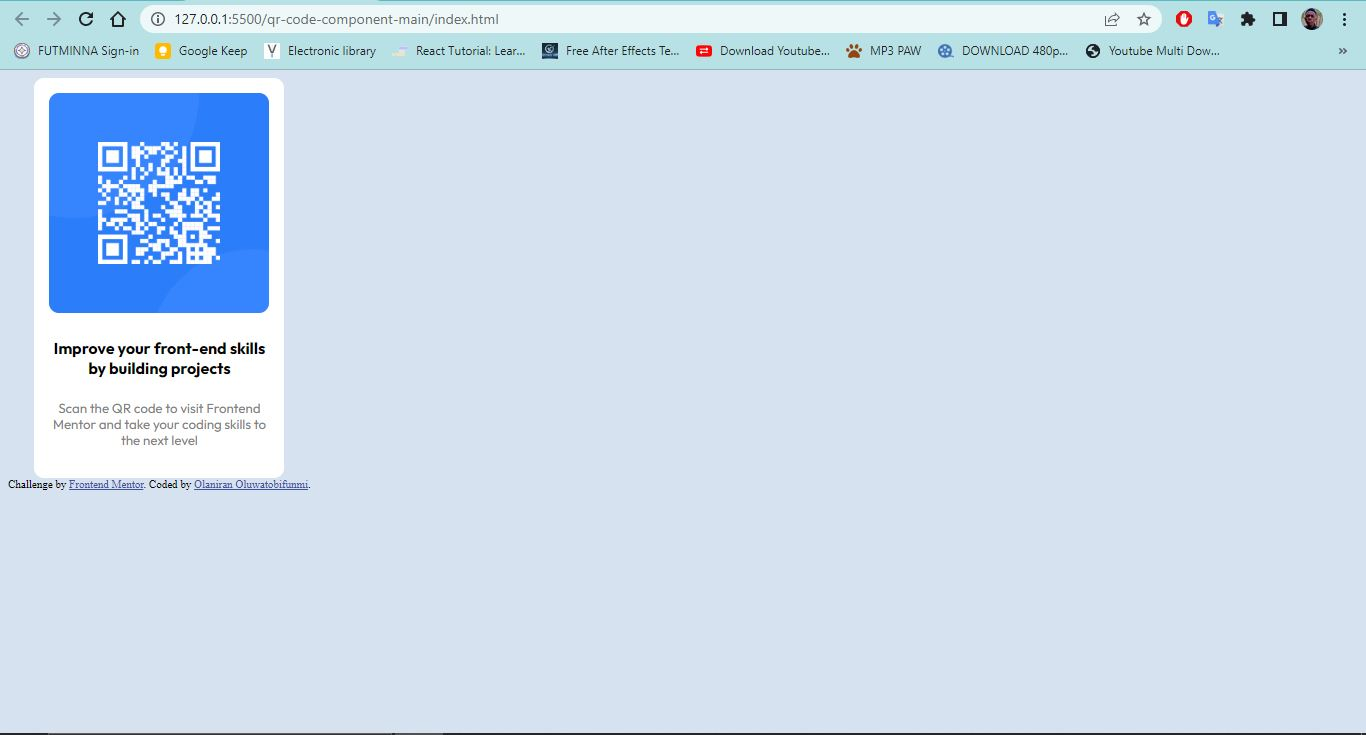
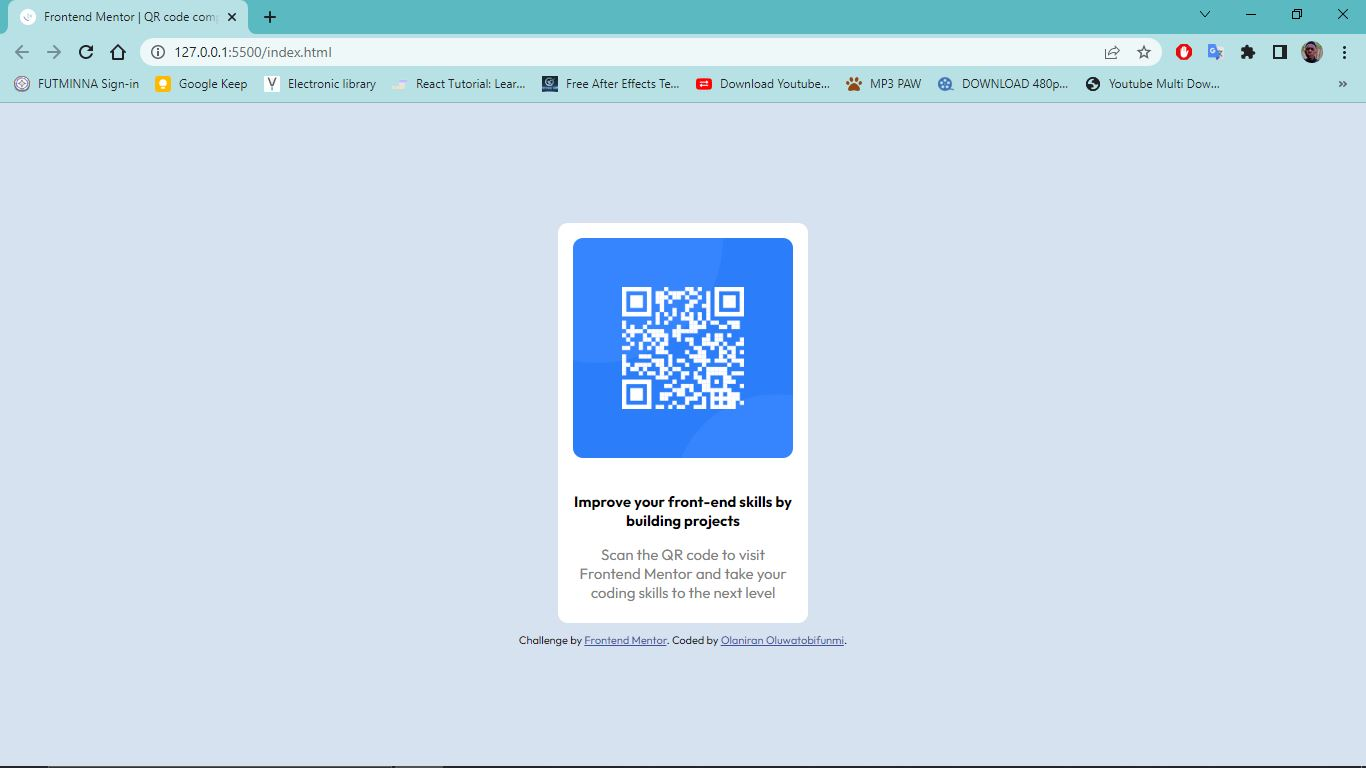
commit

Changed region(s): [[0.0, 0.0, 1.0, 0.6884], [0.369, 0.2694, 0.6149, 0.868]]

diff --git a/index.css b/index.css
@@ -1,117 +1,49 @@
-*{
- width: max-content;
- height: max-content;
- background-color: hsl(212, 45%, 89%);
-}
-.attribution {
- font-size: 11px;
- text-align: center;
+html{
+  background-color: hsl(212, 45%, 89%);
+  font-family: 'Outfit', sans-serif;
+  font-size: 15px;
 }
 
-.attribution a {
- color: hsl(228, 45%, 44%);
+body{
+  display: flex;
+  flex-direction: column;
+  justify-content: center;
+  align-items: center;
+  margin: 0;
+  min-height: 100vh;
 }
 
 .box {
- width: 250px;
- height: 400px;
- border-radius: 10px;
- align-items: center;
- justify-content: center;
- box-sizing: border-box;
- background-color: hsl(0, 0%, 100%);
- display: block;
- margin-left: auto;
- margin-right: auto;
-}
-
-.box img {
- width: 220px;
- border-radius: 10px;
- position: relative;
- align-items: center;
- justify-content: center;
- text-align: center;
- box-sizing: border-box;
- margin-top: 15px;
-margin-left: 15px;
-margin-right: 15px;
-}
-
-.box h4 {
- background-color: hsl(0, 0%, 100%);
- text-align: center;
- width: fit-content;
- margin-left: 15px;
- margin-right: 15px;
- font-family: 'Outfit',
- sans-serif;
- font-weight: 700;
-}
-
-.box h5 {
- background-color: hsl(0, 0%, 100%);
- width: fit-content;
- text-align: center;
- align-items: center;
- margin: 10px;
- font-family: 'Outfit',
- sans-serif;
- font-weight: 400;
- color: gray;
-}
-
- @media screen and (min-width:375px) {
- .box {
   width: 250px;
   height: 400px;
   border-radius: 10px;
-  align-items: center;
-  justify-content: center;
-  box-sizing: border-box;
   background-color: hsl(0, 0%, 100%);
-  display: block;
-  margin-left: auto;
-  margin-right: auto;
- }
- 
- .box img {
+  margin-bottom: 10px;
+}
+
+.box img {
   width: 220px;
   border-radius: 10px;
-  position: relative;
-  align-items: center;
-  justify-content: center;
+  margin: 15px;
+}
+
+p {
   text-align: center;
-  box-sizing: border-box;
-  margin-top: 15px;
   margin-left: 15px;
   margin-right: 15px;
- }
- 
- .box h4 {
-  background-color: hsl(0, 0%, 100%);
-  text-align: center;
-  width: fit-content;
-  margin-left: 15px;
-  margin-right: 15px;
-  font-family: 'Outfit',
-   sans-serif;
   font-weight: 700;
- }
- 
- .box h5 {
-  background-color: hsl(0, 0%, 100%);
-  width: fit-content;
-  text-align: center;
-  align-items: center;
-  margin: 10px;
-  font-family: 'Outfit',
-   sans-serif;
+}
+
+.t2 {
   font-weight: 400;
   color: gray;
-} 
- .attribution {
+}
+
+.attribution {
   font-size: 11px;
   text-align: center;
- }
- }
+}
+
+.attribution a {
+  color: hsl(228, 45%, 44%);
+}

diff --git a/index.html b/index.html
@@ -3,7 +3,6 @@
 <head>
   <meta charset="UTF-8">
   <meta name="viewport" content="width=device-width, initial-scale=1.0"> <!-- displays site properly based on user's device -->
-
   <link rel="icon" type="image/png" sizes="32x32" href="./images/favicon-32x32.png">
   <link>
   <link rel="preconnect" href="https://fonts.googleapis.com">
@@ -14,18 +13,18 @@
   <link rel="stylesheet" href="index.css">
 </head>
 <body>
-  <div class="box">
-      <img src="./images/image-qr-code.png" alt="qrcode" width="200px" height="50px">
-      <h4>
+  <main class="box">
+      <img src="./images/image-qr-code.png" alt="QRcode">
+      <p>
         Improve your front-end skills by building projects
-      </h4>
-      <h5>
+      </p>
+      <p class="t2">
         Scan the QR code to visit Frontend Mentor and take your coding skills to the next level
-      </h5>
-  </div> 
-  <div class="attribution">
+      </p>
+  </main> 
+  <footer class="attribution">
     Challenge by <a href="https://www.frontendmentor.io?ref=challenge" target="_blank">Frontend Mentor</a>. 
     Coded by <a href="#">Olaniran Oluwatobifunmi</a>.
-  </div>
+  </footer>
 </body>
 </html>
